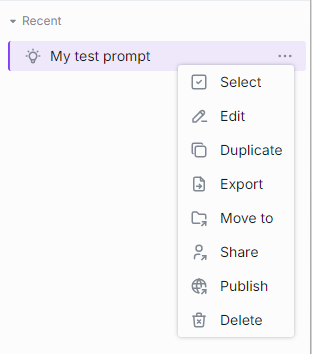
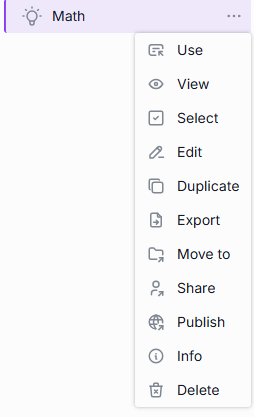
review docs

diff --git a/docs/tutorials/0.user-guide.md b/docs/tutorials/0.user-guide.md
@@ -152,8 +152,9 @@ This is the list of all the supported actions:
 - [Playback](#playback): use to simulate the current conversation without any engagement with models.
 - [Export](#export): use to export a conversation.
 - [Move to](#arrange): use to relocate conversations.
-- [Share](#share): use to share a conversation by providing a link.
-- [Unshare](#unshare): use to revoke a shred conversation.
+- [Share](#share): use to share a conversation by providing a link or QR code.
+- [Remove access](#remove-access): use to remove access to a shared by you conversation for all users.
+- [Unshare](#unshare): use to remove a shared with you conversation from the list.
 - [Publish](#publish): use to publish conversations.
 - [Unpublish](#unpublish): use to revoke public access from published conversations.
 - [Info](#info): use to view metadata of a selected conversation.
@@ -219,7 +220,9 @@ The following symbols in the conversation names are prohibited: tab, `"`, `:`, `
 
 ### Share
 
-You can share a conversation or a folder with several conversations with other users. Yo can also receive a shared conversation.
+You can share a conversation or a folder with several conversations with other users. You can also receive a shared conversation.
+
+**Important**: When a conversation is shared, all its attachments are shared as well and become available in the [Attachments Manager](#attachments-manager).
 
 > Watch [Collaboration](/docs/video%20demos/1.Chat/3.dial-collaboration.md) demo video to learn more about sharing and other collaboration features in DIAL.
 
@@ -233,9 +236,9 @@ If a conversation has been shared with you, it can be located in the **Shared wi
 
 ##### To share a conversation
 
-> **Note**: You can share entire folders with conversations. When you share a folder, all folders and conversations in it will be shared as well.
+> **Note**: You can share entire folders with conversations. When you share a folder, all its folders and attachments will be shared as well.
 
-If you want to share a conversation or a folder, click on **Share** in the contextual menu and send the link to the intended recipient.
+If you want to share a conversation or a folder, click on **Share** in the contextual menu and send the link (or the QR code) to the intended recipient.
 
 ![](./img/share_conv.png)
 
@@ -248,11 +251,15 @@ To filter and view only the conversations that you have shared, click on the **S
 ![](./img/shared-by-me.png)
 
 
-### Unshare
+### Remove access
 
-To revoke access from all users you have shared with, click **Unshare** in the contextual menu and then confirm action in the dialog window.
+To revoke access from all users you have shared with, click **Share** in the contextual menu and then click **Remove access for all users**.
 
 ![](./img/unshare_conv.png)
+
+### Unshare
+
+In the **Shared with me** section, you can find all conversations that were shared with you. Use **Unshare** in the conversations actions menu to remove selected conversations from this list.
 
 ### Duplicate
 
@@ -522,7 +529,8 @@ Click a **...** icon to open a prompt menu. There, you can find a list of all th
 
 This is the list of all the supported actions. Please note that the available actions can differ depending on the selected prompt. For instance, the Unpublish action won't be available if the prompt hasn't been published yet.
 
-- [Use](#use): click to use the selected prompt.
+- [Use](#use): click to populate the selected prompt in the chat box.
+- [View](#view): click to view the details of the selected prompt.
 - [Select](#select-to-delete-1): use to select prompts you want to delete.
 - [Edit](#create-1): use to edit prompts. 
 - [Duplicate](#duplicate-1): use to duplicate a shared prompt.
@@ -530,7 +538,8 @@ This is the list of all the supported actions. Please note that the available ac
 - [Import](#export-import): use to import prompts in JSON format.
 - [Move to](#arrange-1): use to organize a prompts in folders.
 - [Share](#share-1): use to share a prompt or a folder with several prompts with other users.
-- [Unshare](#unshare-1): use to revoke access to shared prompts.
+- [Unshare](#unshare-1): use to remove a shared with you prompt from the list.
+- [Remove access](#remove-access-1): use to remove access to a shared by you prompt for all users.
 - [Publish](#publish-1): use to publish prompts within the organization.
 - [Unpublish](#unpublish-1): use to withdraw prompts from public use.
 - [Info](#info-1): use to view the prompt metadata. 
@@ -572,11 +581,18 @@ Use the **Search** box to search prompts by their names. If you have any shared 
 
 ### Use
 
-Click **Use** in the prompt menu to populate the selected prompt in the chat box.
+Click **Use** in the prompt menu to populate the selected prompt in the chat box or open a pop-up window where you can enter values for prompt [variables](#variables).
 
 ![](./img/use-prompt.png)
 
 > Refer to [Chat](#actions-2) to learn more.
+
+### View
+
+Click **View** in the prompt menu to preview the selected prompt. In the **View prompt** window, you can perform various actions and proceed to use the prompt.
+
+![](./img/view-prompt.png)
+
 
 ### Create
 
@@ -656,22 +672,20 @@ You can share a prompt or a folder with several prompts with other users.
 
 ##### To receive a shared prompt
 
-To obtain a prompt from someone else (receive a shared prompt), you must get a link from them. By clicking on this link, you will import the prompt into your chat.
+To obtain a prompt from someone else (receive a shared prompt), you must get a link or a QR code from them. By following the shared link or scanning a QR code, you will import the prompt into your chat.
 
 When someone shares a prompt with you, you can find it in the **Shared with me** section on the right panel. **Important**: you cannot change a prompt that has been shared with you. To be able to work with it, [duplicate it](#duplicate-1). When you receive a shared prompt, a pop-up window opens up, where you can preview a prompt and duplicate it if needed.
 
-You can always view prompts that have been shared with you in a dedicated section and perform various actions on them such as 
-
-![](./img/shared_prompt2.png)
+You can always view prompts that have been shared with you in the **Shared with me** section and perform various actions on them such as:
 
 * View: opens a pop-up window with a prompt preview.
 * Duplicate: use to duplicate a shared with you prompt to be able to modify it. 
-* Delete: remove from the list.
+* Unshare: remove from the list.
 * Export: download in a JSON format.
 
 ##### To share a prompt
 
-If you want to share a prompt or a folder, click on **Share** in the contextual menu and copy the link. All shared prompts can then be located by selecting the **Shared by me** checkbox in the filter.
+If you want to share a prompt or a folder, click on **Share** in the contextual menu, copy the link or the QR code and pass it to the recipient. All shared prompts can then be located by selecting the **Shared by me** checkbox in the filter.
 
 ![](./img/pt_share.png)
 
@@ -681,11 +695,13 @@ Once the recipient opens your link, an arrow icon will appear next to its name.
 
 > When you share a folder, all folders and prompts in this folders will be shared.
 
+### Remove access
+
+If you want to remove access to a prompt that you have shared, click **Share** and click **Remove access for all users**.
+
 ### Unshare
 
-To revoke access from all users you have shared with, click **Unshare** in the contextual menu and then confirm actions in the dialog window.
-
-![](./img/pt_unshare.png)
+To remove a shared with prompt from the list, click  **Unshare** in the contextual menu and then confirm actions in the dialog window.
 
 ### Duplicate
 
@@ -803,7 +819,7 @@ The chat occupies the central part of the main screen, allowing you to input mes
 
 You can enter a prompt manually or select one of [existing prompts](#prompts). 
 
-Enter `/` in the chat text box to select one of the available prompts. You can also click [Use](#use) in the prompt's menu to populate it in the text box.
+Enter `/` in the chat text box to select one of the available prompts. You can also click [Use](#use) in the prompt's menu to populate it in the text box or invoke a pop-up window where you can populate prompt variables.
 
 **Copying responses**: you can copy answers to reuse them some place else.
 
@@ -877,17 +893,24 @@ If the selected application supports this, you can click the attachment icon in 
 
 ### Files
 
-If the selected application supports this, you can click the attachment icon in the conversation box and select **Attach uploaded files**. In the attachments manager, select available files that you have previously uploaded and select a checkbox to add to the conversation. The file will be displayed as attachment in the conversation box and become available for the application to work with.
+If the selected application supports this, you can click the attachment icon in the conversation box and select **Attach uploaded files** or **Upload from device**.
+
+![](./img/attach-file2.png)
+
+* Attach uploaded files: If you have already uploaded the necessary files, you can select them in the attachments manager.
+* Upload from device: Select files you want to upload. Uploaded files you will be able to find in the attachments manager.
+
+The file(s) will be displayed as attachment(s) in the conversation box and become available for the application to work with.
 
 ![](./img/attach-file.png)
 
 ### Attachments Manager 
 
-All attached and uploaded files are available in the attachments manager. To manage all attachments, click the **Attachments** icon at the bottom of the left panel.
+Files that have been attached, uploaded, published or shared are available in the attachments manager. To manage attachments, click the **Attachments** icon at the bottom of the left panel.
 
 ![](./img/attachments3.png)
 
-There can be a few tabs in the Attachments Manager: 
+In the Attachments Manager, resources are split into three sections: 
 
 * Organization - published files and/or files of published applications.
 * Shared with me - shared files and/or files of shared applications.
@@ -901,11 +924,11 @@ You can create folders and then upload files into them. **Note**, the only way t
 
 > DIAL applications can be configured to allow attaching entire folders to conversations. In this case, only folders created in the attachments manager can be attached to a conversation.
 
-![](./img/create-folder.png)
-
 1. Click a folder icon to create a new folder.
 2. Give your folder a name.
 3. Click submit to apply.
+
+![](./img/create-folder.png)
 
 You can as well perform several actions on your folders: 
 
@@ -919,7 +942,7 @@ You can as well perform several actions on your folders:
 
 To add a file into a folder it is necessary to upload it.
 
-1. In the Manage attachments dialog, select **Upload from device**.
+1. In the Manage attachments dialog window, select **Upload from device**.
 2. Select one or several files you want to upload and click **Open**.
 3. Under **Upload to**, select **Change** to pick a folder, in which the files will be uploaded.
 4. Under **Files**, change their names or delete them, if necessary. The following symbols in the file names are prohibited: tab, `"`, `:`, `;`, `/`, `\`, `,`, `=`, `{`, `}`, `%`, `&`. Note that you can use the `.` symbol at the start or inside a name, but the dot at the end will be automatically removed.
@@ -929,11 +952,21 @@ To add a file into a folder it is necessary to upload it.
 
 ##### To unshare a file
 
-With an application that supports file attachments, you can create a conversation and share it. When a conversation is shared, all files attached to that conversation are also shared. In the attachments manager, these shared files are marked with a blue arrow.
+In the **Shared with me** section, you can find all files attached to shared with you conversations or shared together with applications.
 
-In the file menu, you can choose to unshare it: 
+To remove a file form this list, click **Unshare** in the file menu.
 
-![](./img/file-menu.png)
+![](./img/unshare-file.png)
+
+You can also unshare folders with source files of the share with you applications.
+
+##### To delete a file
+
+You can delete files that you have personally attached or uploaded.
+
+If an application was shared with you with editing rights, you can delete its files. For example, if a Code App was shared with you with the rights to edit its source files, you can open the folder containing them in the Attachments Manager/Shared with me and delete these files.
+
+**Please note** that you cannot delete shared files without explicit permission to do so.
 
 ##### To download attachments
 
@@ -1256,7 +1289,9 @@ A shared application (or its version if only a specific version has been shared)
 
 ##### Access to application files
 
-Applications can rely on resources like documents and files to operate. When the application is shared, the resources it includes are shared as well. You can see files that have been shared along with applications in the [Attachments Manager](#attachments-manager)/Shared with me tab.
+Applications can rely on resources like documents and files to operate. When the application is shared, the resources it includes are shared as well. You can see files that have been shared along with applications in the [Attachments Manager](#attachments-manager) under the "Shared with me" section. You can Unshare shared files to remove them from this list.
+
+If an application was shared with you **with editing rights** (e.g., a Code App with its source code files), you can access its files in the Attachments Manager under the "Shared with me" section. With editing rights, you can **delete** specific source files via the actions menu.
 
 > Refer to [Access to Application Files](/docs/tutorials/1.developers/4.apps-development/3.enable-app.md#access-to-application-files) to see a more in-depth and technical description of a logic that handles access to files of shared applications.
 

diff --git a/docs/tutorials/1.developers/3.chat/0.chat-objects.md b/docs/tutorials/1.developers/3.chat/0.chat-objects.md
@@ -240,6 +240,12 @@ This message will be rendered in DIAL Chat UI like this:
 
 ![](../img/markdown2.png)
 
+## LaTeX Formulas
+
+DIAL Chat natively supports the Markdown LaTeX format and the rendering of formulas in responses from models that support this feature.
+
+![](../img/latex-formulas.png)
+
 
 ## Visualizers
 
